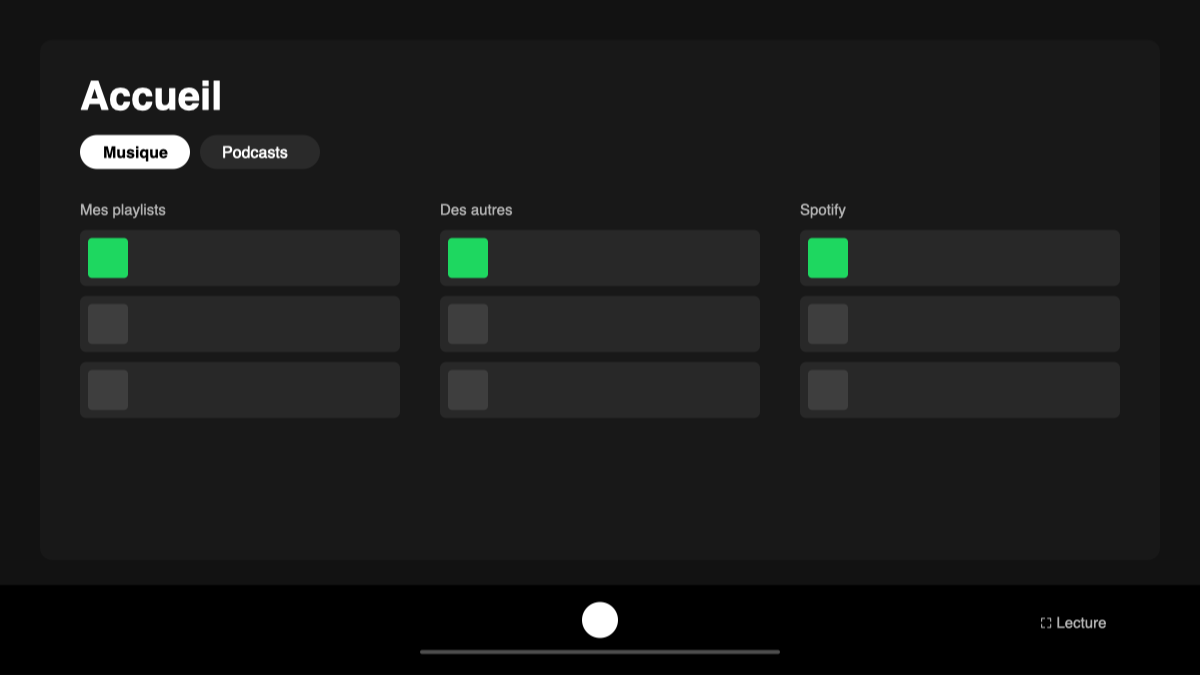
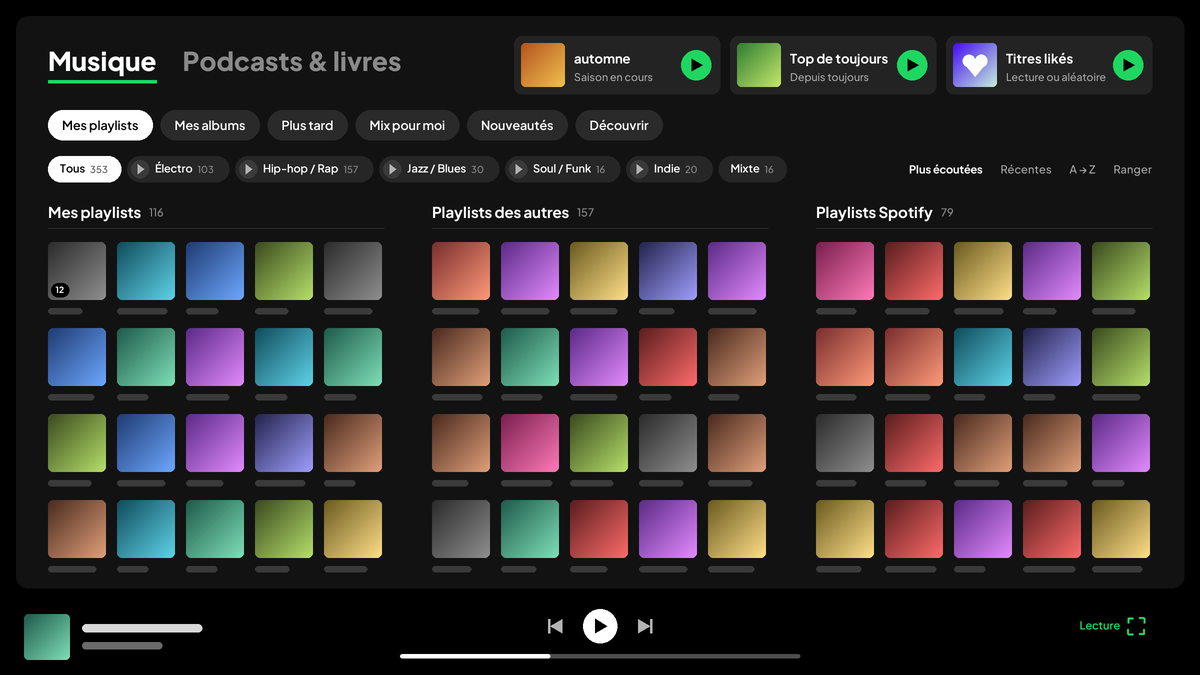
README en anglais (README.fr.md en français), aperçu mis à jour
- README.md en anglais, README.fr.md en français, liens entre les deux ;
  libellés de l'interface (en français) cités avec leur traduction.
- preview.png : schéma de l'interface actuelle (onglets Musique /
  Podcasts & livres, cartes épinglées, styles avec ▶, trois colonnes en
  grille, bouton Lecture), toujours sans pochette ni nom réel. Police
  Plus Jakarta Sans (OFL).
- manifest.json : description en anglais pour le Marketplace.

diff --git a/README.md b/README.md
@@ -1,91 +1,112 @@
-# Compact — thème Spicetify
+# Compact — Spicetify theme
 
-![Aperçu](preview.png)
+**English** · [Français](README.fr.md)
 
-Un Spotify centré sur **ta** bibliothèque : un accueil sur mesure à la place des recommandations, une vue de lecture plein écran avec paroles, et une interface débarrassée de ce qui ne sert pas.
+![Preview](preview.png)
 
-Pour **Spotify sur ordinateur, version téléchargée sur spotify.com** (pas celle du Microsoft Store ni du Mac App Store), Mac ou Windows. Fait pour Spotify 1.3 et Spicetify 2.45.
+A Spotify built around **your** library: a custom home page instead of recommendations, a fullscreen now-playing view with lyrics, and an interface stripped of what you don't use.
 
-## Ce que ça change
+For the **Spotify desktop app downloaded from spotify.com** (not the Microsoft Store or Mac App Store version), on Mac or Windows. Built for Spotify 1.3 and Spicetify 2.45.
 
-### Accueil
-- **Onglets Musique / Podcasts & livres**, avec un sous-menu chacun : Mes playlists, Mes albums, Plus tard, Mix pour moi, Nouveautés, Découvrir ; et côté podcasts : nouveaux épisodes, à reprendre, tes émissions, livres audio (les tiens et ceux proposés pour toi), découvrir. Fonctionne avec Spotify en français comme en anglais (une section non reconnue va dans « Découvrir » plutôt que de disparaître).
-- **Mes playlists en trois colonnes** : les tiennes, celles des autres, celles de Spotify.
-- **Filtres par style** dans chaque sous-menu, avec un ▶ pour lancer tout un style en aléatoire. Les styles viennent de tes dossiers (voir [À adapter](#à-adapter-à-ta-bibliothèque)).
-- **Nombre d'écoutes** sur chaque playlist et chaque album, et tri « Plus écoutées ».
-- **Suggestions de rangement** (bouton « Ranger » de Mes playlists) : playlists dont les artistes relèvent surtout d'un autre dossier de style, playlists en vrac à la racine au style net, playlists pas écoutées depuis plus d'un an (quand Spotify connaît la date). Pour chacune : « Déplacer vers… » (ou « Archiver », dans un dossier `ARCHIVES`) et « Ignorer ». Rien ne bouge sans ton clic.
-- **Mes albums par date de sortie** : tris « Sortie ↓ » et « Sortie ↑ ».
-- **Cartes épinglées en haut** : clic droit sur une playlist, un album, un artiste, une émission ou un dossier → « Épingler sur l'accueil ». Glisse une carte, Titres likés compris, pour changer l'ordre. Les titres likés sont toujours là, avec lecture ou aléatoire.
+> The theme's interface is in French. It works with Spotify set to French or English. Button labels are quoted below in French, followed by their meaning.
 
-### Lecture plein écran
-Le bouton plein écran de la barre du lecteur (ou ⤢ du panneau En cours de lecture) ouvre une vue plein écran : pochette en grand, contrôles, **paroles synchronisées** (clic sur une ligne pour s'y rendre) et liste **À suivre** (clic sur un titre pour y sauter). Échap pour fermer.
+## What it changes
 
-### Clic droit
-- **Partout** : les cartes de l'accueil et la liste « À suivre » ouvrent le vrai menu de Spotify.
-- **« Écouter plus tard »** : met de côté un titre, un album, une playlist ou un artiste sans le liker. On le retrouve dans l'onglet « Plus tard », où ce qui a été joué est marqué « Écouté ». L'horloge de la vue Lecture fait la même chose pour le titre en cours.
-- **« Discographie complète »** (sur un artiste, un album ou un titre) : toutes les sorties de l'artiste, filtrables (albums, EP, singles, compilations, déjà dans ta bibliothèque) et triables par date.
-- **« Épingler sur l'accueil »** / **« Retirer de l'accueil »**.
+### Home
+- **Music / Podcasts & books tabs** (« Musique » / « Podcasts & livres »), each with its own sub-menu: my playlists, my albums, listen later, mixes for me, new releases, discover. On the podcast side: new episodes, resume, your shows, audiobooks (yours and suggested ones), discover. Any section the theme doesn't recognize lands in « Découvrir » (Discover) instead of disappearing.
+- **My playlists in three columns**: yours, other people's, Spotify's.
+- **Style filters** in every sub-menu, with a ▶ to shuffle a whole style. Styles come from your folders (see [Adapting it to your library](#adapting-it-to-your-library)).
+- **Play counts** on every playlist and album, and a "most played" sort (« Plus écoutées »).
+- **Tidy-up suggestions** (« Ranger » button in My playlists):
+  - playlists whose artists mostly belong to another style folder;
+  - loose playlists at the library root with a clear style;
+  - playlists not played in over a year, when Spotify knows the date.
 
-### Glisser-déposer
-Fais glisser un titre (barre du lecteur, file d'attente…) sur « Titres likés » pour le liker, ou sur une de tes propres playlists (colonne « Mes playlists » ou carte épinglée) pour l'y ajouter, sans doublon.
+  Each one gets a move (« Déplacer vers… ») or archive (« Archiver », into an `ARCHIVES` folder) button, plus « Ignorer » (dismiss). Nothing moves until you click.
+- **Albums by release date**: « Sortie ↓ » and « Sortie ↑ » sorts.
+- **Pinned cards at the top**: right-click a playlist, album, artist, show or folder → « Épingler sur l'accueil » (pin to home). Drag any card, Liked Songs included, to reorder them. Liked Songs is always there, with play or shuffle.
 
-### Automatismes
-- **Saisons** : si tu ranges tes playlists de saison dans un dossier `SAISONS`, la playlist de la nouvelle saison (« automne '26 »…) est créée au début de chaque saison astronomique, épinglée, et la précédente rangée dans `SAISONS`.
-- **Démarrage** : si Spicetify rate son initialisation (ça arrive au lancement de Spotify), l'interface se recharge toute seule.
+### Fullscreen playback
+The fullscreen button in the player bar (or ⤢ in the Now Playing panel) opens a fullscreen view:
+- large cover art and playback controls;
+- **synced lyrics**: click a line to jump to it;
+- **up next** list: click a track to skip to it.
+
+Press Esc to close.
+
+### Right-click
+- **Everywhere**: home cards and the up-next list open Spotify's real context menu.
+- **« Écouter plus tard »** (listen later): sets a track, album, playlist or artist aside without liking it. You'll find it in the « Plus tard » tab, where anything you've played is marked « Écouté ». The clock in the playback view does the same for the current track.
+- **« Discographie complète »** (on an artist, album or track): every release by the artist. Filter by albums, EPs, singles, compilations or already in your library, and sort by date.
+- **« Épingler sur l'accueil »** / **« Retirer de l'accueil »** (pin to / unpin from home).
+
+### Drag and drop
+Drag a track (player bar, queue…) onto Liked Songs to like it, or onto one of your own playlists to add it without duplicates. Your own playlists are the ones in the « Mes playlists » column and your pinned cards.
+
+### Automations
+- **Seasons**: if your seasonal playlists live in a `SAISONS` folder, the playlist for the new season (« automne '26 »…) is created at the start of each astronomical season and pinned. The previous one is filed into `SAISONS`.
+- **Startup**: Spicetify sometimes fails to initialize when Spotify launches. When it does, the interface reloads itself.
 
 ### Interface
-Panneau de gauche masqué (la navigation passe par l'accueil), bouton « Studio » retiré, bouton Maison en double retiré, bande colorée de l'en-tête retirée sur l'accueil.
+- Left sidebar hidden: you navigate from the home page.
+- « Studio » button removed.
+- Duplicate Home button removed.
+- Colored sticky header band removed on the home page.
 
-## Installer
+## Install
 
-La page Accueil et la vue Lecture sont des *custom apps* : le Marketplace de Spicetify ne sait pas les installer, il faut passer par le script.
+The home page and the playback view are *custom apps*. Spicetify's Marketplace can't install those, so use the script.
 
-Télécharger le dépôt (bouton **Code → Download ZIP**) et le dézipper, ou :
+Download the repo (**Code → Download ZIP**) and unzip it, or:
 ```bash
 git clone https://github.com/Simon-Gaspar/spicetify-compact.git
 ```
 
-**Mac** : ouvrir le Terminal dans le dossier et lancer `./install.sh` (Homebrew requis).
+**Mac**: open Terminal in the folder and run `./install.sh` (Homebrew required).
 
 **Windows**
-1. Double-cliquer sur `install.cmd`, sans le lancer en administrateur. Si Windows affiche « Windows a protégé votre ordinateur », cliquer sur « Informations complémentaires » puis « Exécuter quand même ».
-2. Si l'installeur de Spicetify demande d'installer le Marketplace, répondre **N**.
+1. Double-click `install.cmd`. Don't run it as administrator. If Windows shows "Windows protected your PC", click "More info", then "Run anyway".
+2. If the Spicetify installer offers to install the Marketplace, answer **N**.
 
-Le script installe Spicetify s'il manque, copie le thème, les deux pages et les extensions, puis redémarre Spotify.
+The script installs Spicetify if needed, copies the theme, both pages and the extensions, then restarts Spotify.
 
-**Depuis le Marketplace**, seuls le thème et les extensions s'installent : sans les custom apps, le panneau de gauche et l'accueil natif restent en place.
+**From the Marketplace**, only the theme and the extensions get installed. Without the custom apps, the left sidebar and Spotify's own home page stay as they are.
 
-## Mettre à jour
+## Update
 
-- **Le thème** : récupérer la dernière version du dépôt (`git pull`, ou nouveau ZIP) et relancer le script d'installation.
-- **Après une mise à jour de Spotify**, les modifications sautent : relancer le script, ou `spicetify backup apply` (dans le Terminal ou PowerShell).
+- **The theme**: get the latest version of the repo (`git pull`, or a new ZIP) and run the install script again.
+- **After a Spotify update**, the changes are gone: run the script again, or `spicetify backup apply` (in Terminal or PowerShell).
 
-Revenir au Spotify d'origine : `spicetify restore`.
+Back to stock Spotify: `spicetify restore`.
 
-## À adapter à ta bibliothèque
+## Adapting it to your library
 
-- **Styles** : sans dossiers, pas de filtres par style (une astuce le rappelle) — tout le reste fonctionne. Un style = un dossier de premier niveau de ta bibliothèque, détecté automatiquement (sauf `SAISONS`). Les albums, mix et découvertes sont classés d'après leurs artistes, et ce qui ne rentre dans aucun style va dans « Mixte ». Pour ne garder que certains dossiers ou changer leur nom affiché, édite `STYLE_LABELS` au début de `CustomApps/accueil/index.js` (dans `%APPDATA%\spicetify` sous Windows, `~/.config/spicetify` sur Mac), puis `spicetify apply` : dès qu'un dossier de cette liste existe, seuls ceux de la liste comptent. L'analyse est refaite chaque semaine.
-- **Saisons automatiques** : ne s'activent que si tu as un dossier `SAISONS` à la racine de ta bibliothèque. Sans ce dossier, rien n'est créé.
-- **Épingles** : au premier lancement, elles reprennent les éléments épinglés de ta bibliothèque Spotify, puis c'est toi qui choisis.
+- **Styles**: one style = one top-level folder in your library, detected automatically (except `SAISONS`).
+  - Without folders there are no style filters; a hint in the interface points this out. Everything else works.
+  - Albums, mixes and discoveries are classified from their artists. Anything that fits no style goes into « Mixte » (mixed).
+  - To keep only some folders or rename how they're displayed, edit `STYLE_LABELS` at the top of `CustomApps/accueil/index.js`, then run `spicetify apply`. The folder is `%APPDATA%\spicetify` on Windows and `~/.config/spicetify` on Mac. As soon as one folder from that list exists, only the listed folders count.
+  - The analysis runs again every week.
+- **Automatic seasons**: only active if you have a `SAISONS` folder at the root of your library. Without it, nothing is created.
+- **Pins**: on first launch, they start from the items pinned in your Spotify library. After that, you choose.
 
-## Gardé sur cet ordinateur
+## Kept on this computer
 
-Ces données restent dans Spotify sur l'ordinateur où le thème est installé : elles ne passent pas sur ton téléphone ni sur un autre ordinateur.
+This data stays in Spotify on the computer where the theme is installed. It doesn't carry over to your phone or another computer.
 
-| Donnée | Détail |
+| Data | Details |
 |---|---|
-| Écoutes | Une écoute = une fois où tu lances la playlist ou l'album, sur n'importe quel appareil (Spotify synchronise la date de dernière écoute). Deux écoutes à moins de 30 min comptent pour une ; compté à partir de l'installation. |
-| Plus tard | La liste « Écouter plus tard ». |
-| Épingles | Les cartes du haut de l'accueil. |
-| Styles, dates de sortie | Mis en cache pour aller vite (styles refaits chaque semaine). |
+| Play counts | One play = one time you start the playlist or album, on any device (Spotify syncs the last-played date). Two plays less than 30 min apart count as one. Counting starts at install. |
+| Listen later | The « Écouter plus tard » list. |
+| Pins | The cards at the top of the home page. |
+| Styles, release dates | Cached for speed (styles are recomputed every week). |
 
-## En cas de souci
+## Troubleshooting
 
-- **Écran « Something went wrong » ou accueil incomplet au lancement** : le thème recharge l'interface tout seul, jusqu'à 3 fois. Si ça persiste, quitte et relance Spotify.
-- **Une fonction disparaît après une mise à jour de Spotify** : un bandeau le signale en haut de l'accueil, avec une notification une fois par version. Détails dans la console : `spicetify enable-devtools`, puis messages `[accueil]`.
+- **"Something went wrong" screen or incomplete home page at launch**: the theme reloads the interface by itself, up to 3 times. If it persists, quit and restart Spotify.
+- **A feature disappears after a Spotify update**: a banner at the top of the home page flags it, with a notification once per version. For details, run `spicetify enable-devtools` and look for `[accueil]` messages in the console.
 
-## Limites
+## Limitations
 
-- Pas de filtre des morceaux générés par IA : Spotify n'expose pas cette information.
-- Le thème s'appuie sur des API internes de Spotify, qui changent parfois avec ses mises à jour.
-- Spicetify modifie l'app Spotify, ce que les conditions d'utilisation de Spotify n'autorisent pas (ce n'est quasiment jamais appliqué). À utiliser en connaissance de cause.
+- No filter for AI-generated tracks: Spotify doesn't expose that information.
+- The theme relies on Spotify's internal APIs, which sometimes change with its updates.
+- Spicetify modifies the Spotify app. Spotify's terms of use don't allow that, although it's almost never enforced. Use at your own discretion.

diff --git a/README.fr.md b/README.fr.md
@@ -1,0 +1,93 @@
+# Compact — thème Spicetify
+
+[English](README.md) · **Français**
+
+![Aperçu](preview.png)
+
+Un Spotify centré sur **ta** bibliothèque : un accueil sur mesure à la place des recommandations, une vue de lecture plein écran avec paroles, et une interface débarrassée de ce qui ne sert pas.
+
+Pour **Spotify sur ordinateur, version téléchargée sur spotify.com** (pas celle du Microsoft Store ni du Mac App Store), Mac ou Windows. Fait pour Spotify 1.3 et Spicetify 2.45.
+
+## Ce que ça change
+
+### Accueil
+- **Onglets Musique / Podcasts & livres**, avec un sous-menu chacun : Mes playlists, Mes albums, Plus tard, Mix pour moi, Nouveautés, Découvrir ; et côté podcasts : nouveaux épisodes, à reprendre, tes émissions, livres audio (les tiens et ceux proposés pour toi), découvrir. Fonctionne avec Spotify en français comme en anglais (une section non reconnue va dans « Découvrir » plutôt que de disparaître).
+- **Mes playlists en trois colonnes** : les tiennes, celles des autres, celles de Spotify.
+- **Filtres par style** dans chaque sous-menu, avec un ▶ pour lancer tout un style en aléatoire. Les styles viennent de tes dossiers (voir [À adapter](#à-adapter-à-ta-bibliothèque)).
+- **Nombre d'écoutes** sur chaque playlist et chaque album, et tri « Plus écoutées ».
+- **Suggestions de rangement** (bouton « Ranger » de Mes playlists) : playlists dont les artistes relèvent surtout d'un autre dossier de style, playlists en vrac à la racine au style net, playlists pas écoutées depuis plus d'un an (quand Spotify connaît la date). Pour chacune : « Déplacer vers… » (ou « Archiver », dans un dossier `ARCHIVES`) et « Ignorer ». Rien ne bouge sans ton clic.
+- **Mes albums par date de sortie** : tris « Sortie ↓ » et « Sortie ↑ ».
+- **Cartes épinglées en haut** : clic droit sur une playlist, un album, un artiste, une émission ou un dossier → « Épingler sur l'accueil ». Glisse une carte, Titres likés compris, pour changer l'ordre. Les titres likés sont toujours là, avec lecture ou aléatoire.
+
+### Lecture plein écran
+Le bouton plein écran de la barre du lecteur (ou ⤢ du panneau En cours de lecture) ouvre une vue plein écran : pochette en grand, contrôles, **paroles synchronisées** (clic sur une ligne pour s'y rendre) et liste **À suivre** (clic sur un titre pour y sauter). Échap pour fermer.
+
+### Clic droit
+- **Partout** : les cartes de l'accueil et la liste « À suivre » ouvrent le vrai menu de Spotify.
+- **« Écouter plus tard »** : met de côté un titre, un album, une playlist ou un artiste sans le liker. On le retrouve dans l'onglet « Plus tard », où ce qui a été joué est marqué « Écouté ». L'horloge de la vue Lecture fait la même chose pour le titre en cours.
+- **« Discographie complète »** (sur un artiste, un album ou un titre) : toutes les sorties de l'artiste, filtrables (albums, EP, singles, compilations, déjà dans ta bibliothèque) et triables par date.
+- **« Épingler sur l'accueil »** / **« Retirer de l'accueil »**.
+
+### Glisser-déposer
+Fais glisser un titre (barre du lecteur, file d'attente…) sur « Titres likés » pour le liker, ou sur une de tes propres playlists (colonne « Mes playlists » ou carte épinglée) pour l'y ajouter, sans doublon.
+
+### Automatismes
+- **Saisons** : si tu ranges tes playlists de saison dans un dossier `SAISONS`, la playlist de la nouvelle saison (« automne '26 »…) est créée au début de chaque saison astronomique, épinglée, et la précédente rangée dans `SAISONS`.
+- **Démarrage** : si Spicetify rate son initialisation (ça arrive au lancement de Spotify), l'interface se recharge toute seule.
+
+### Interface
+Panneau de gauche masqué (la navigation passe par l'accueil), bouton « Studio » retiré, bouton Maison en double retiré, bande colorée de l'en-tête retirée sur l'accueil.
+
+## Installer
+
+La page Accueil et la vue Lecture sont des *custom apps* : le Marketplace de Spicetify ne sait pas les installer, il faut passer par le script.
+
+Télécharger le dépôt (bouton **Code → Download ZIP**) et le dézipper, ou :
+```bash
+git clone https://github.com/Simon-Gaspar/spicetify-compact.git
+```
+
+**Mac** : ouvrir le Terminal dans le dossier et lancer `./install.sh` (Homebrew requis).
+
+**Windows**
+1. Double-cliquer sur `install.cmd`, sans le lancer en administrateur. Si Windows affiche « Windows a protégé votre ordinateur », cliquer sur « Informations complémentaires » puis « Exécuter quand même ».
+2. Si l'installeur de Spicetify demande d'installer le Marketplace, répondre **N**.
+
+Le script installe Spicetify s'il manque, copie le thème, les deux pages et les extensions, puis redémarre Spotify.
+
+**Depuis le Marketplace**, seuls le thème et les extensions s'installent : sans les custom apps, le panneau de gauche et l'accueil natif restent en place.
+
+## Mettre à jour
+
+- **Le thème** : récupérer la dernière version du dépôt (`git pull`, ou nouveau ZIP) et relancer le script d'installation.
+- **Après une mise à jour de Spotify**, les modifications sautent : relancer le script, ou `spicetify backup apply` (dans le Terminal ou PowerShell).
+
+Revenir au Spotify d'origine : `spicetify restore`.
+
+## À adapter à ta bibliothèque
+
+- **Styles** : sans dossiers, pas de filtres par style (une astuce le rappelle) — tout le reste fonctionne. Un style = un dossier de premier niveau de ta bibliothèque, détecté automatiquement (sauf `SAISONS`). Les albums, mix et découvertes sont classés d'après leurs artistes, et ce qui ne rentre dans aucun style va dans « Mixte ». Pour ne garder que certains dossiers ou changer leur nom affiché, édite `STYLE_LABELS` au début de `CustomApps/accueil/index.js` (dans `%APPDATA%\spicetify` sous Windows, `~/.config/spicetify` sur Mac), puis `spicetify apply` : dès qu'un dossier de cette liste existe, seuls ceux de la liste comptent. L'analyse est refaite chaque semaine.
+- **Saisons automatiques** : ne s'activent que si tu as un dossier `SAISONS` à la racine de ta bibliothèque. Sans ce dossier, rien n'est créé.
+- **Épingles** : au premier lancement, elles reprennent les éléments épinglés de ta bibliothèque Spotify, puis c'est toi qui choisis.
+
+## Gardé sur cet ordinateur
+
+Ces données restent dans Spotify sur l'ordinateur où le thème est installé : elles ne passent pas sur ton téléphone ni sur un autre ordinateur.
+
+| Donnée | Détail |
+|---|---|
+| Écoutes | Une écoute = une fois où tu lances la playlist ou l'album, sur n'importe quel appareil (Spotify synchronise la date de dernière écoute). Deux écoutes à moins de 30 min comptent pour une ; compté à partir de l'installation. |
+| Plus tard | La liste « Écouter plus tard ». |
+| Épingles | Les cartes du haut de l'accueil. |
+| Styles, dates de sortie | Mis en cache pour aller vite (styles refaits chaque semaine). |
+
+## En cas de souci
+
+- **Écran « Something went wrong » ou accueil incomplet au lancement** : le thème recharge l'interface tout seul, jusqu'à 3 fois. Si ça persiste, quitte et relance Spotify.
+- **Une fonction disparaît après une mise à jour de Spotify** : un bandeau le signale en haut de l'accueil, avec une notification une fois par version. Détails dans la console : `spicetify enable-devtools`, puis messages `[accueil]`.
+
+## Limites
+
+- Pas de filtre des morceaux générés par IA : Spotify n'expose pas cette information.
+- Le thème s'appuie sur des API internes de Spotify, qui changent parfois avec ses mises à jour.
+- Spicetify modifie l'app Spotify, ce que les conditions d'utilisation de Spotify n'autorisent pas (ce n'est quasiment jamais appliqué). À utiliser en connaissance de cause.
